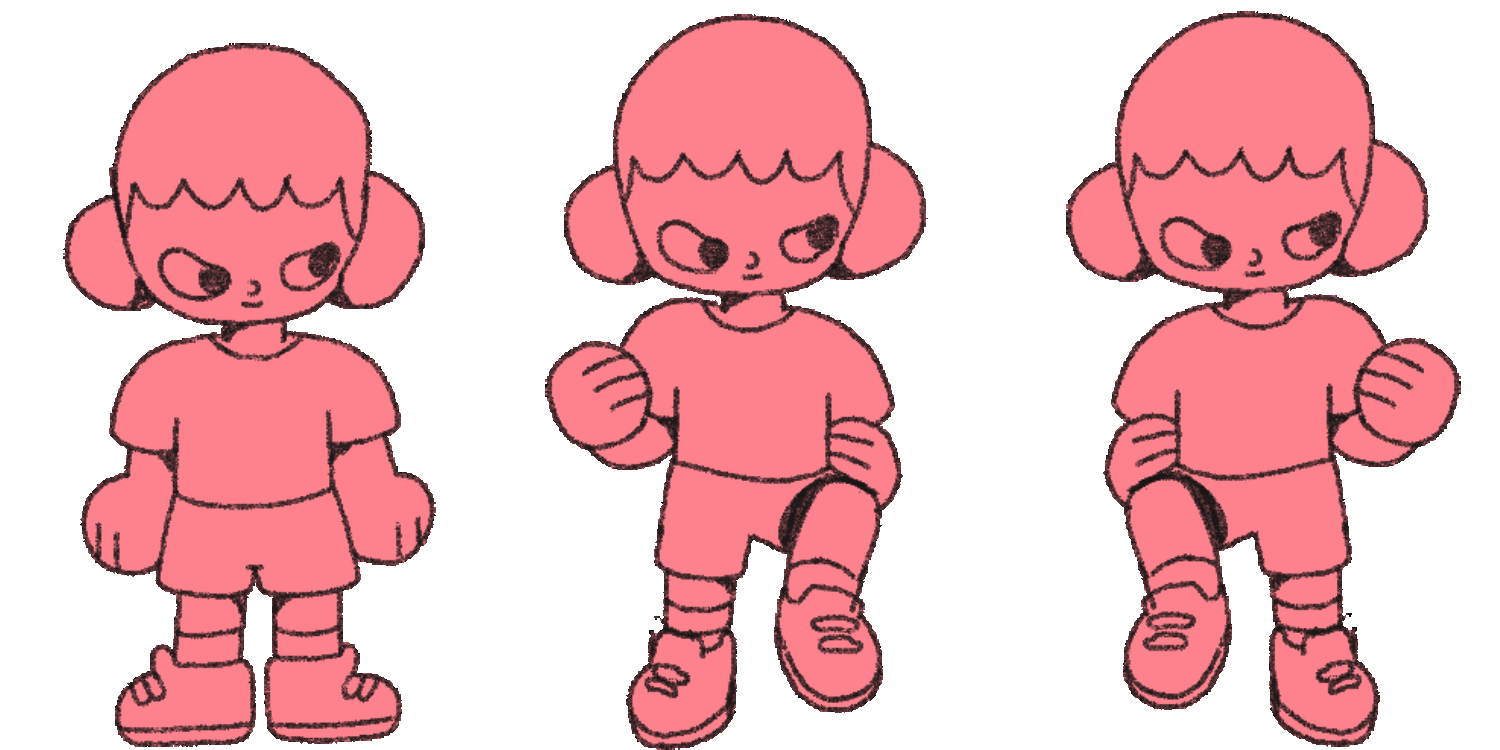
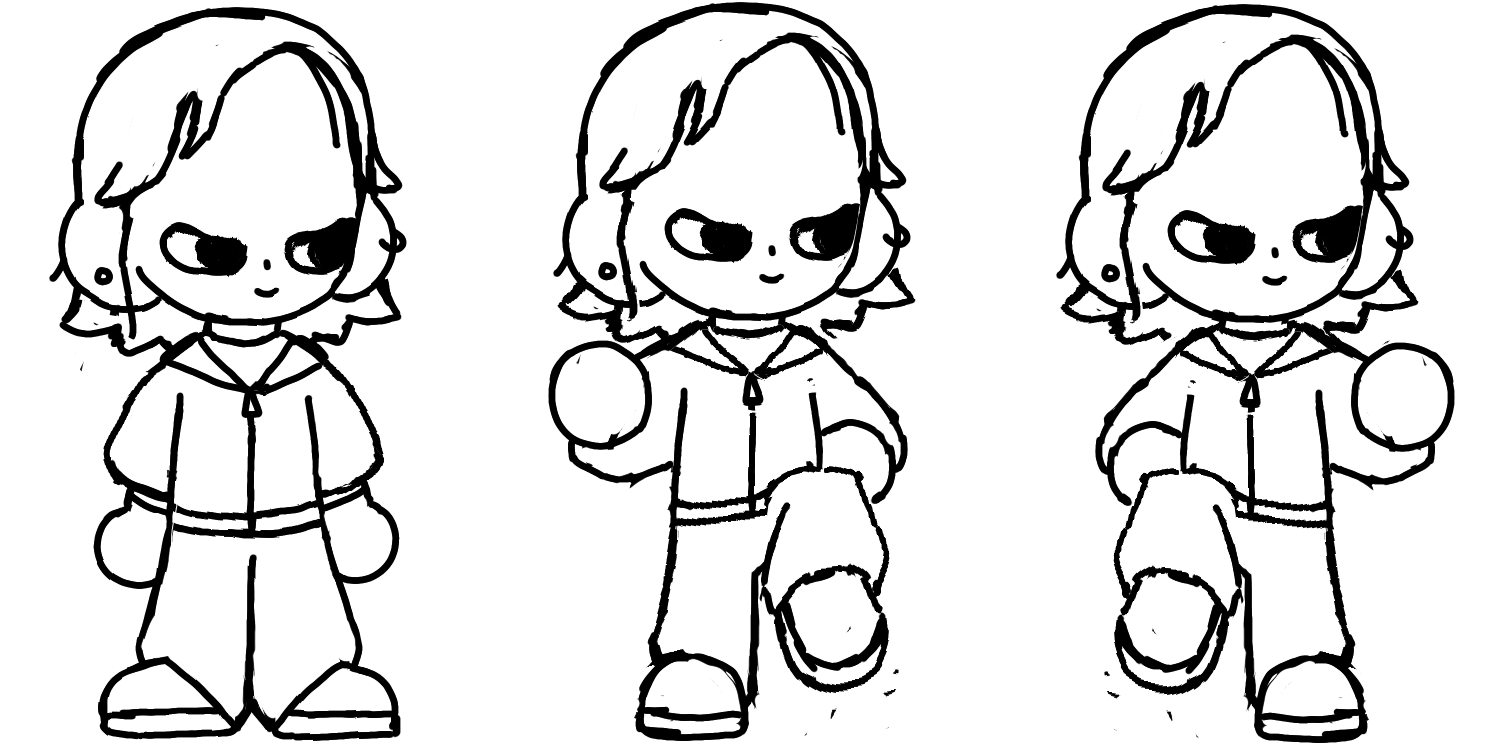
animation update

diff --git a/server.js b/server.js
@@ -372,7 +372,8 @@ const _npcTick = (dt) => {
     if (hSpd > 0.15) {
       const fps = 6 * Math.max(hSpd / SRV_NPC_WALK_SPEED, 0.4);
       npc.frameTime += dt;
-      if (npc.frameTime >= 1/fps) { npc.frameTime -= 1/fps; npc.frame = (npc.frame+1)%3; }
+      if (npc.frame === 0) npc.frame = 1;
+      if (npc.frameTime >= 1/fps) { npc.frameTime -= 1/fps; npc.frame = npc.frame === 1 ? 2 : 1; }
     } else { npc.frame = 0; npc.frameTime = 0; }
   }
 };

diff --git a/systems/AnimationSystem.js b/systems/AnimationSystem.js
@@ -46,11 +46,12 @@ const AnimationSystem = (world, dt) => {
     const { Animation: anim, NetworkedPlayer: nd } = entity;
 
     if (nd.isMoving || nd.isTurning) {
+      if (anim.currentFrame === 0) { anim.currentFrame = 1; anim.frameTime = 0; }
       anim.frameTime += dt;
       const frameDur  = 1 / anim.framesPerSecond;
       if (anim.frameTime >= frameDur) {
         anim.frameTime   -= frameDur;
-        anim.currentFrame = (anim.currentFrame + 1) % anim.totalFrames;
+        anim.currentFrame = anim.currentFrame === 1 ? 2 : 1;
       }
     } else {
       anim.currentFrame = 0;